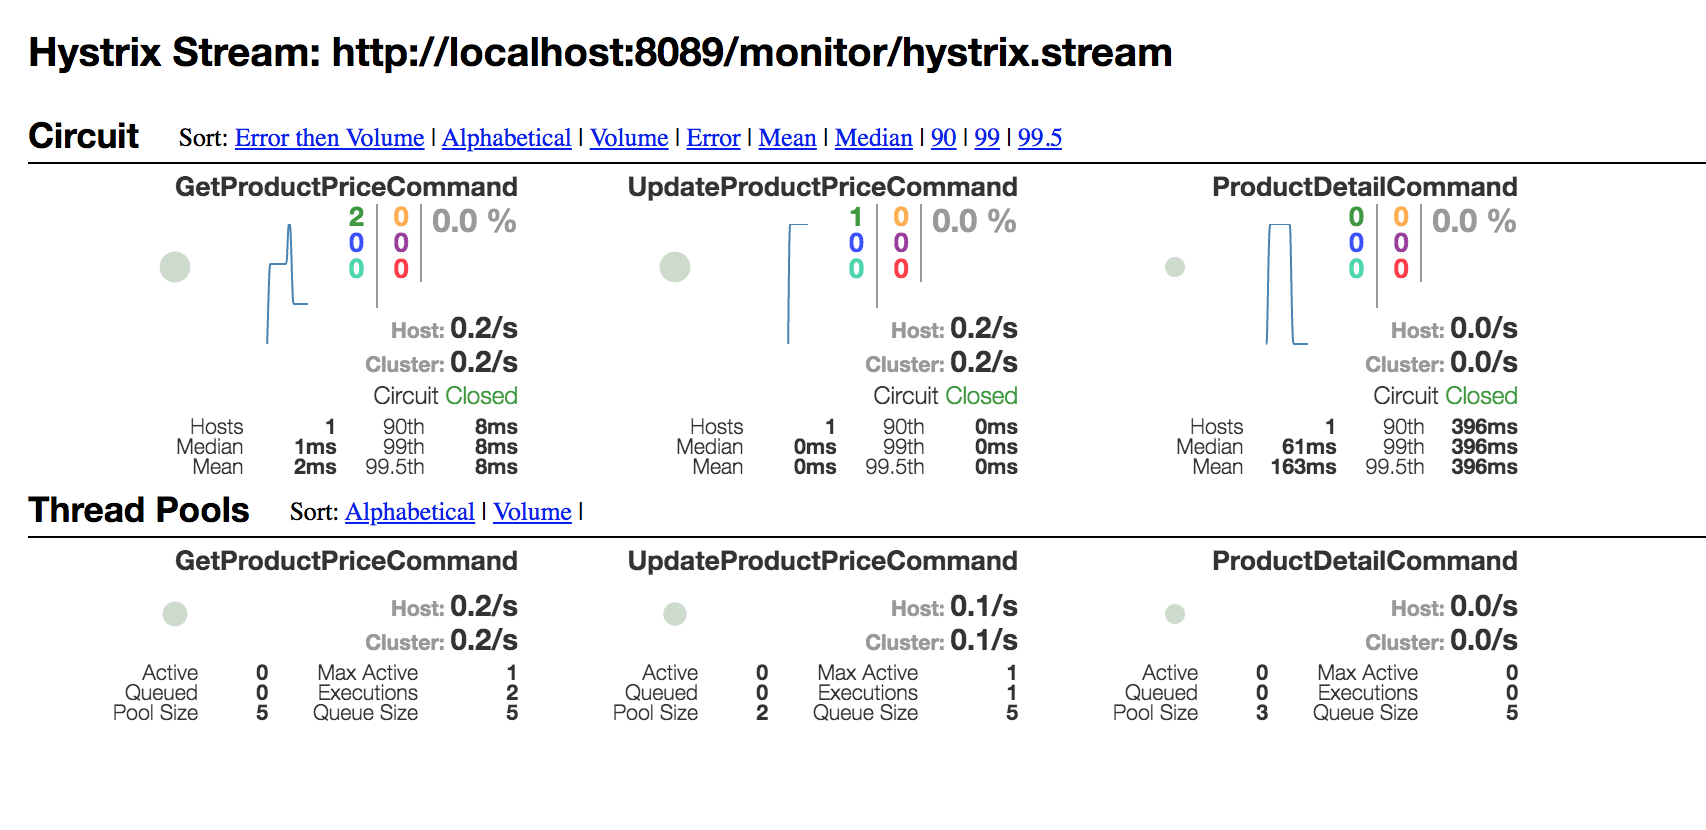
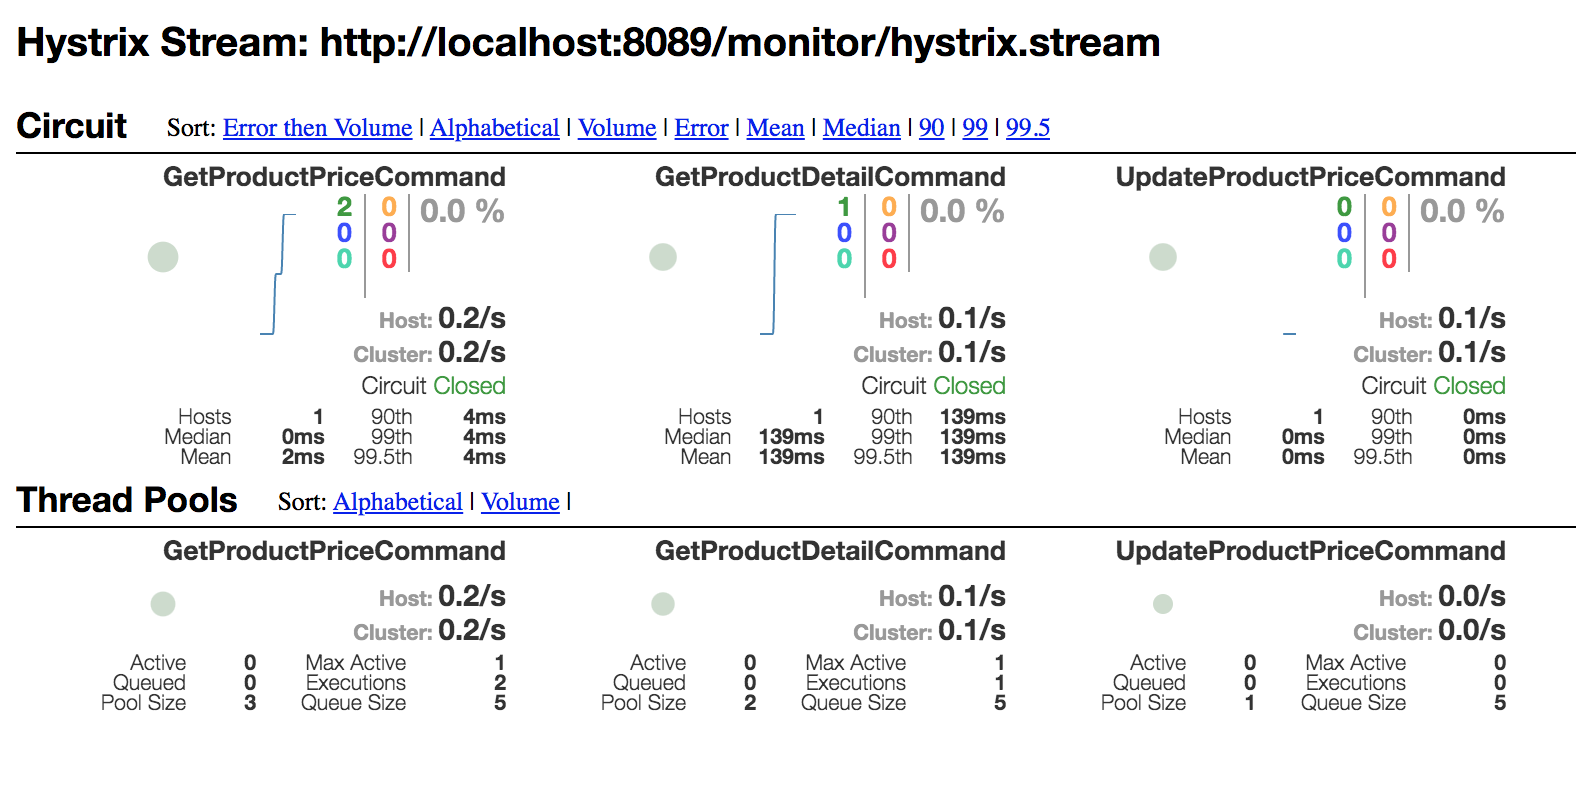
Code Refactor

diff --git a/src/main/java/com/myretail/catalog/product/ws/service/impl/ProductOrchestratorServiceImpl.java b/src/main/java/com/myretail/catalog/product/ws/service/impl/ProductOrchestratorServiceImpl.java
@@ -6,7 +6,7 @@ import org.springframework.beans.factory.annotation.Autowired;
 import org.springframework.stereotype.Component;
 
 import com.myretail.catalog.product.ws.circuit.GetProductPriceCommand;
-import com.myretail.catalog.product.ws.circuit.ProductDetailCommand;
+import com.myretail.catalog.product.ws.circuit.GetProductDetailCommand;
 import com.myretail.catalog.product.ws.circuit.UpdateProductPriceCommand;
 import com.myretail.catalog.product.ws.client.ProductDetailServiceClient;
 import com.myretail.catalog.product.ws.client.response.ProductDetailResponse;
@@ -39,7 +39,14 @@ public class ProductOrchestratorServiceImpl implements ProductOrchestratorServic
 		this.productDetailServiceClient = productDetailServiceClient;
 		this.beanMapper = beanMapper;
 	}
-
+	
+	
+	
+	/**
+	 * Retrieves the full product details by getting name from external Redsky API & price from DB
+	 * @param prodId passed in request
+	 * @return Product
+	 */
 	public Product getProductInfo(String prodId) {
 		final String methodName = "[ ProductOrchestratorServiceImpl :: getProductInfo ]";
 		LOGGER.debug(ProductConstants.LOG_DEBUG_METHOD_START_MSG, methodName);
@@ -49,7 +56,7 @@ public class ProductOrchestratorServiceImpl implements ProductOrchestratorServic
 		try {
 			Long productId = Long.valueOf(prodId);
 
-			productAggregateObservable = Observable.zip(new ProductDetailCommand(productId, productDetailServiceClient)
+			productAggregateObservable = Observable.zip(new GetProductDetailCommand(productId, productDetailServiceClient)
 					.toObservable().onErrorReturn(exception -> {
 						LOGGER.error("Hystrix error occured in product lookup from Redsky API {}", exception);
 						throw new ProductServiceException("104", exception.getMessage());
@@ -75,6 +82,16 @@ public class ProductOrchestratorServiceImpl implements ProductOrchestratorServic
 
 	}
 
+	
+	/**
+	 * Updates the product information into DB. 
+	 * If price already exists in DB for the given product id, price get updated. 
+	 * If price doesn't exists in DB for the given product id, new price get's created.
+	 * 
+	 * @param prodId passed in request
+	 * @param productDetails passed in request body
+	 *  @return Product
+	 */
 	public Product updateProductInfo(Product productDetails, String productId) {
 		final String methodName = "[ ProductOrchestratorServiceImpl :: updateProductInfo ]";
 		LOGGER.debug(ProductConstants.LOG_DEBUG_METHOD_START_MSG, methodName);
@@ -118,6 +135,14 @@ public class ProductOrchestratorServiceImpl implements ProductOrchestratorServic
 		return productDetails;
 	}
 
+	
+	/**
+	 * Validates the service errors & Orchestrates the product details received from Redsky API & DB.
+	 * 
+	 * @param productDetailResponse
+	 * @param price
+	 * @return Product
+	 */
 	public Product getOrchestratedProductDetails(ProductDetailResponse productDetailResponse, Price price,
 			Long prodId) {
 

diff --git a/src/test/java/com/myretail/catalog/product/ws/resource/v1/ProductResourceTest.java b/src/test/java/com/myretail/catalog/product/ws/resource/v1/ProductResourceTest.java
@@ -2,7 +2,8 @@ package com.myretail.catalog.product.ws.resource.v1;
 import static org.mockito.Mockito.when;
 import static org.springframework.test.web.servlet.request.MockMvcRequestBuilders.get;
 import static org.springframework.test.web.servlet.request.MockMvcRequestBuilders.put;
-
+import static org.springframework.test.web.servlet.result.MockMvcResultMatchers.content;
+import static org.springframework.test.web.servlet.result.MockMvcResultMatchers.jsonPath;
 import static org.springframework.test.web.servlet.result.MockMvcResultMatchers.status;
 
 import java.math.BigDecimal;
@@ -41,13 +42,21 @@ public class ProductResourceTest {
 
 		mockGetService("13860428");
 		mockMvc.perform(get("/myretail/api/v1/products/13860428").contentType(MediaType.APPLICATION_JSON)
-				.header(CLIENT_ID_HEADER, CLIENT_ID_HEADER_VALUE)).andExpect(status().isOk());
+				.header(CLIENT_ID_HEADER, CLIENT_ID_HEADER_VALUE)).andExpect(status().isOk()).andExpect(content().contentType(MediaType.APPLICATION_JSON))
+		      	.andExpect(jsonPath("$.current_price.price").value("199.99"));
 	}
 
 	@Test
 	public void testGetProductDetailsInvalidProduct() throws Exception {
 		mockGetService("1386042811");
 		mockMvc.perform(get("/myretail/api/v1/products/13860428111").contentType(MediaType.APPLICATION_JSON)
+				.header(CLIENT_ID_HEADER, CLIENT_ID_HEADER_VALUE)).andExpect(status().isBadRequest());
+	}
+	
+	@Test
+	public void testGetProductDetailsInvalidProductWithAlphaNumeric() throws Exception {
+		mockGetService("1386042811");
+		mockMvc.perform(get("/myretail/api/v1/products/7y7y7u8eu38e3").contentType(MediaType.APPLICATION_JSON)
 				.header(CLIENT_ID_HEADER, CLIENT_ID_HEADER_VALUE)).andExpect(status().isBadRequest());
 	}
 

diff --git a/src/main/java/com/myretail/catalog/product/ws/circuit/GetProductDetailCommand.java b/src/main/java/com/myretail/catalog/product/ws/circuit/GetProductDetailCommand.java
@@ -5,15 +5,15 @@ import com.myretail.catalog.product.ws.client.response.ProductDetailResponse;
 import com.netflix.hystrix.HystrixCommand;
 import com.netflix.hystrix.HystrixCommandGroupKey;
 
-public class ProductDetailCommand extends HystrixCommand<ProductDetailResponse> {
+public class GetProductDetailCommand extends HystrixCommand<ProductDetailResponse> {
 	
 	
 	private final ProductDetailServiceClient productDetailServiceClient;
 	
 	private final Long productId;
 
-	 public ProductDetailCommand(Long productId, ProductDetailServiceClient productDetailServiceClient) {
-	        super(HystrixCommandGroupKey.Factory.asKey("ProductDetailCommand"));
+	 public GetProductDetailCommand(Long productId, ProductDetailServiceClient productDetailServiceClient) {
+	        super(HystrixCommandGroupKey.Factory.asKey("GetProductDetailCommand"));
 	        this.productId = productId;
 	        this.productDetailServiceClient=productDetailServiceClient; 
 	    }
